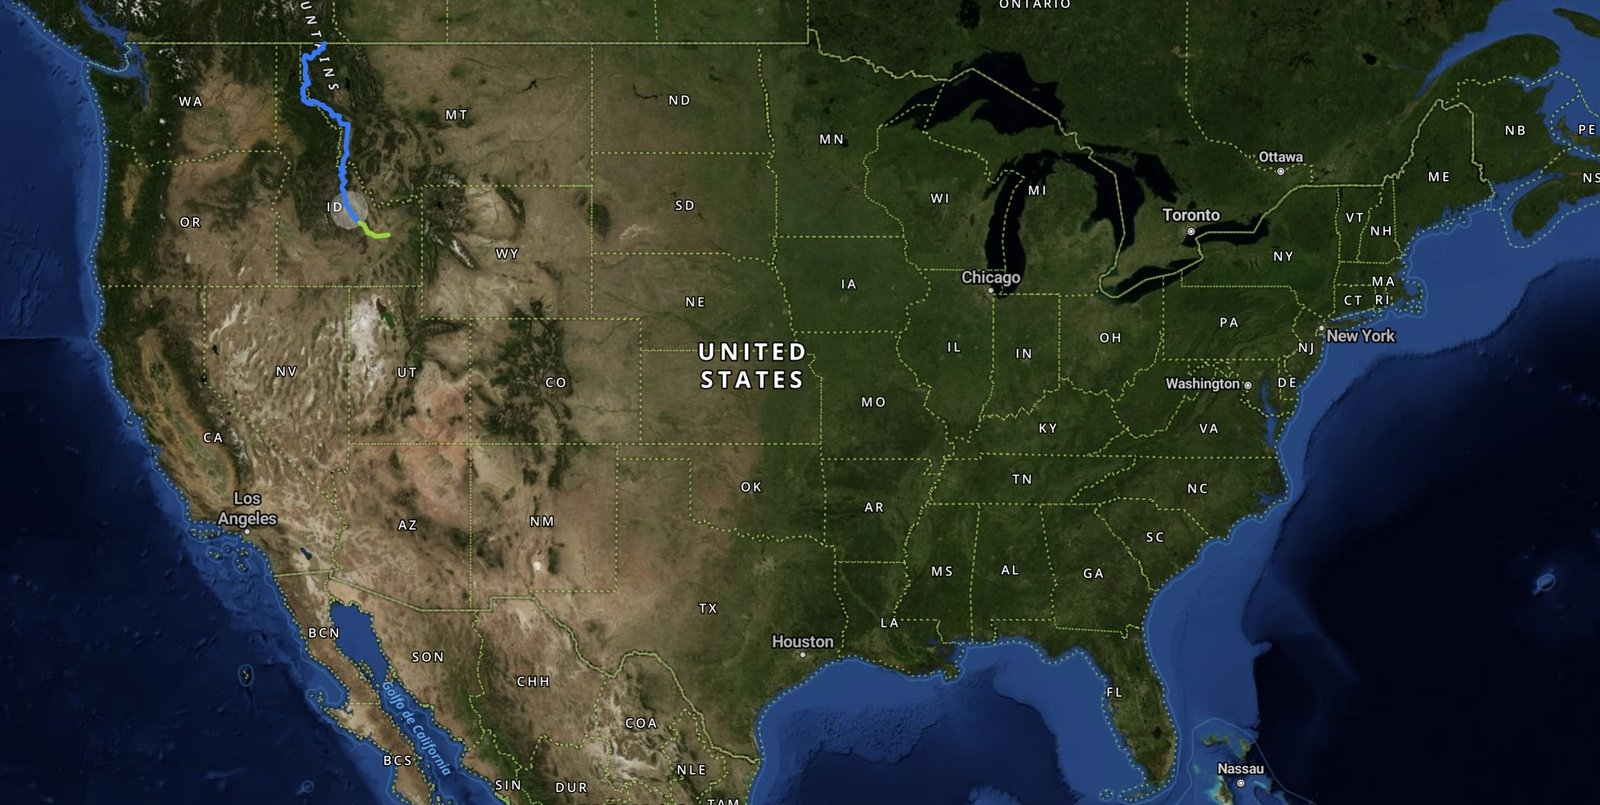
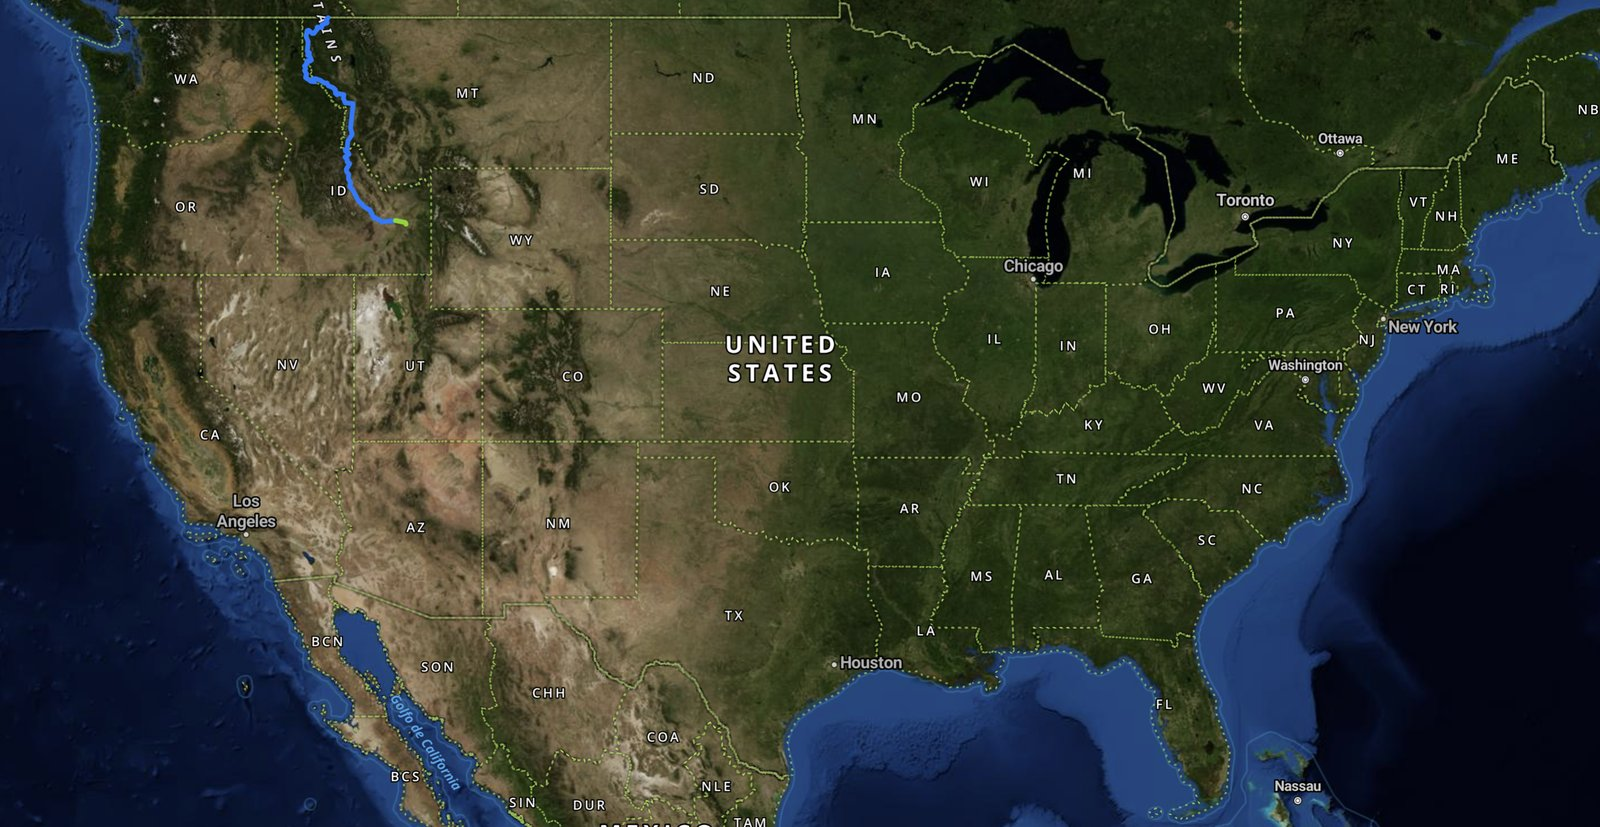
Day 14: Twenty Mile Lava Trail to home in Idaho Falls, 26.2 mi; progress map through day 14

diff --git a/rick/data.js b/rick/data.js
@@ -78,20 +78,21 @@ const LOG = [
     {time:"9:56 am", text:"Rolling through Arco, past the sail of the USS Hawkbill, the Submarine in the Desert."},
     {time:"Evening", miles:74.2, gain:739, text:"Camped at the Twenty Mile Lava Trail on US 20, about 20 miles west of Idaho Falls. 74.2 miles, +739 / -1,528 ft."},
   ]},
-  {day:14, date:"2026-09-19", end:"", miles:0, gain:0, loss:0, done:false, notes:"", updates:[
+  {day:14, date:"2026-09-19", end:"Home, Idaho Falls, ID", miles:26.2, gain:108, loss:524, high:5118, low:4692, lat:43.44976, lng:-112.02972, notes:"The last 26.2 miles into Idaho Falls, downhill across the desert from the Twenty Mile Lava Trail camp, 108 ft of climbing all day. Home for the weekend after two weeks on the road: his own bed, church on Sunday, and back out Monday heading south.", updates:[
     {time:"Morning", text:"A short ride today, the last 20 miles from the lava trail camp into Idaho Falls. Home for the weekend: a zero day in his own bed and church on Sunday, then back on the trail Monday heading south."},
+    {time:"Midday", miles:26.2, gain:108, text:"Home in Idaho Falls. 26.2 easy miles across the desert, +108 / -524 ft. Fourteen days and 746 miles from the Canadian border."},
   ]},
 ];
 
 // Rick's last known position. This drives the "Where is Rick?" block, the map, and the weather. Update whenever new coordinates come in, even mid-day.
 // town = nearest town, state = 2-letter state, label = extra detail (forest, lake, pass), asOf = when the position was reported (Mountain time), approx:true shows an "approximate" tag instead of "from his Garmin".
-const LOCATION = {lat:43.55378, lng:-112.44194, town:"Twenty Mile Lava Trail, US 20", state:"ID", label:"Camped on the desert at the Twenty Mile Lava Trail after 74.2 miles on day 13, about 20 miles west of Idaho Falls", asOf:"Sept 18, evening MT", approx:false};
+const LOCATION = {lat:43.44976, lng:-112.02972, town:"Idaho Falls", state:"ID", label:"Home for the weekend after 746 miles from the Canadian border", asOf:"Sept 19, evening MT", approx:false};
 
 // Intraday news that is not a completed day. Shows under the position. Set to "" when there is nothing to say. Only add a LOG row once the day is done.
-const STATUS = "Day 14, and Rick is almost home. Day 13 was 74.2 miles from Mackay through Arco, past the Submarine in the Desert, and east across the lava fields on US 20 to a camp about 20 miles west of Idaho Falls. Today is a short ride into town. Sunday is a zero day at home, his own bed and church, and Monday, day 16, he heads back out, this time riding away from home. Segment 4 from Mackay by way of Idaho Falls is being redrawn, so a few numbers on this page will shift once it is.";
+const STATUS = "Rick is home. He rolled the last 26 miles into Idaho Falls on Saturday, day 14, finishing two weeks and 746 miles from the Canadian border. Today, day 15, is a zero day: his own bed and church. Monday he heads back out, this time riding away from home toward Bear Lake and the Utah line. Segment 4 from Mackay is being redrawn, so a few numbers on this page will shift once it is.";
 // Cover photo for the top of the tracker page (file name without .jpg, from rick/photos/). Use a wide crop; the bottom third fades into the page.
 // Zoomed-out map of the whole West with Rick's track so far (screenshot from the Windy/onX view). Re-shoot every few days, overwrite the same file, update asOf.
-const PROGRESS_MAP = {file:"wwr-progress-map", asOf:"Sept 18, 2026, end of day 13", caption:"Blue and green in the northwest is Rick's track so far, Roosville to the desert west of Idaho Falls, with day 13 in green. The route runs south through Utah and Arizona to the Mexican border at Sierra Vista."};
+const PROGRESS_MAP = {file:"wwr-progress-map", asOf:"Sept 19, 2026, end of day 14", caption:"Blue and green in the northwest is Rick's track so far, Roosville to the desert west of Idaho Falls, with day 13 in green. The route runs south through Utah and Arizona to the Mexican border at Sierra Vista."};
 const COVER = "2026-09-06-roosville-start-cover";
 
 // Photos: file names live in rick/photos/. Add the full-size jpg plus a -thumb.jpg. Newest first.
@@ -158,5 +159,5 @@ const PHOTOS = [
   {file:"2026-09-06-koocanusa-bridge", date:"2026-09-06", time:"13:36", caption:"Day 1. The Lake Koocanusa bridge from the road above, the longest bridge in Montana, over the Kootenai River backed up behind Libby Dam."},
   {file:"2026-09-06-roosville-start", date:"2026-09-06", time:"10:02", caption:"Day 1. Rick and the loaded bike at the Roosville border crossing, ready to roll south."},
 ];
-const LAST_UPDATED = "Sept 19, 2026, 7:23 am MT";
+const LAST_UPDATED = "Sept 20, 2026, 7:56 am MT";
 // ===== END DATA =====
